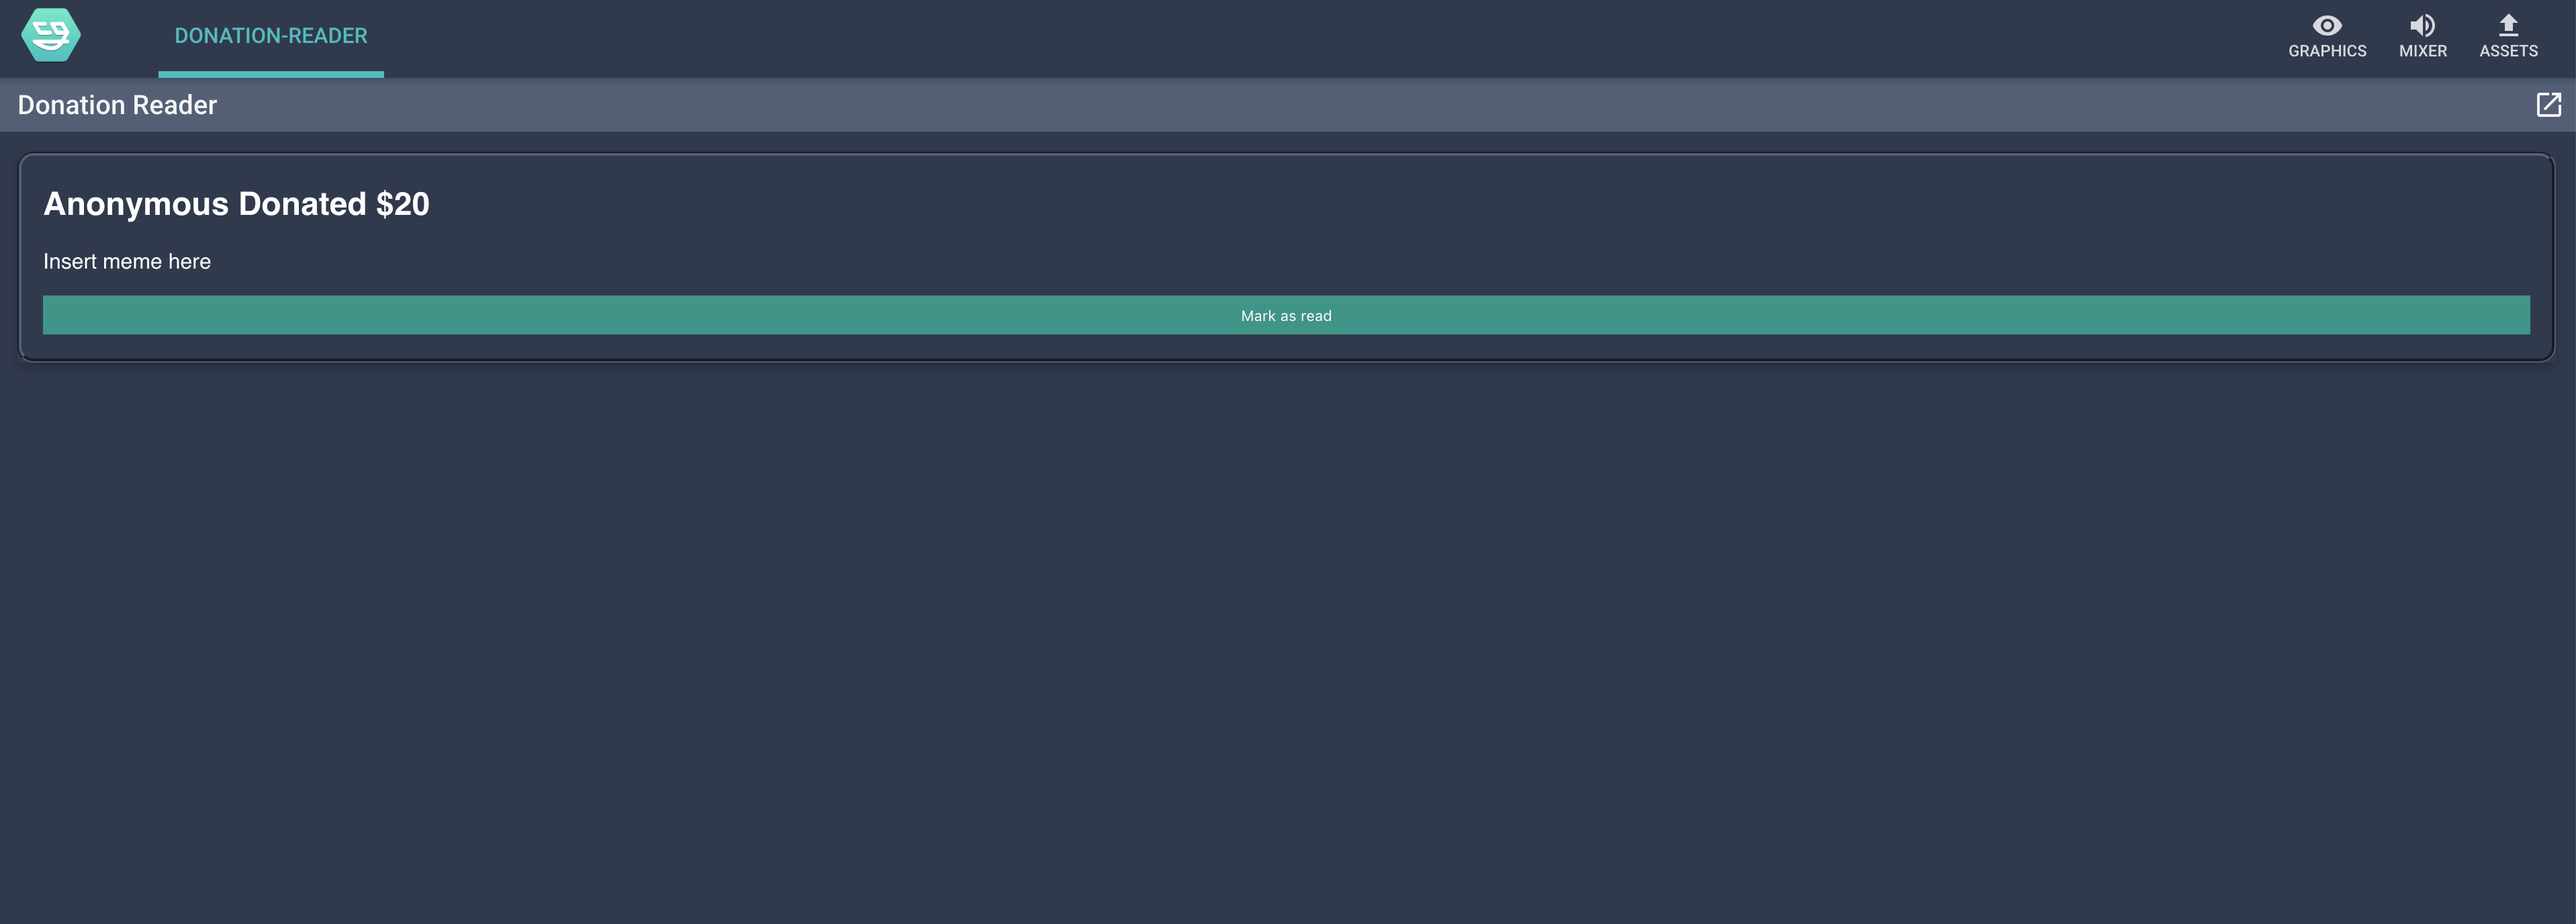
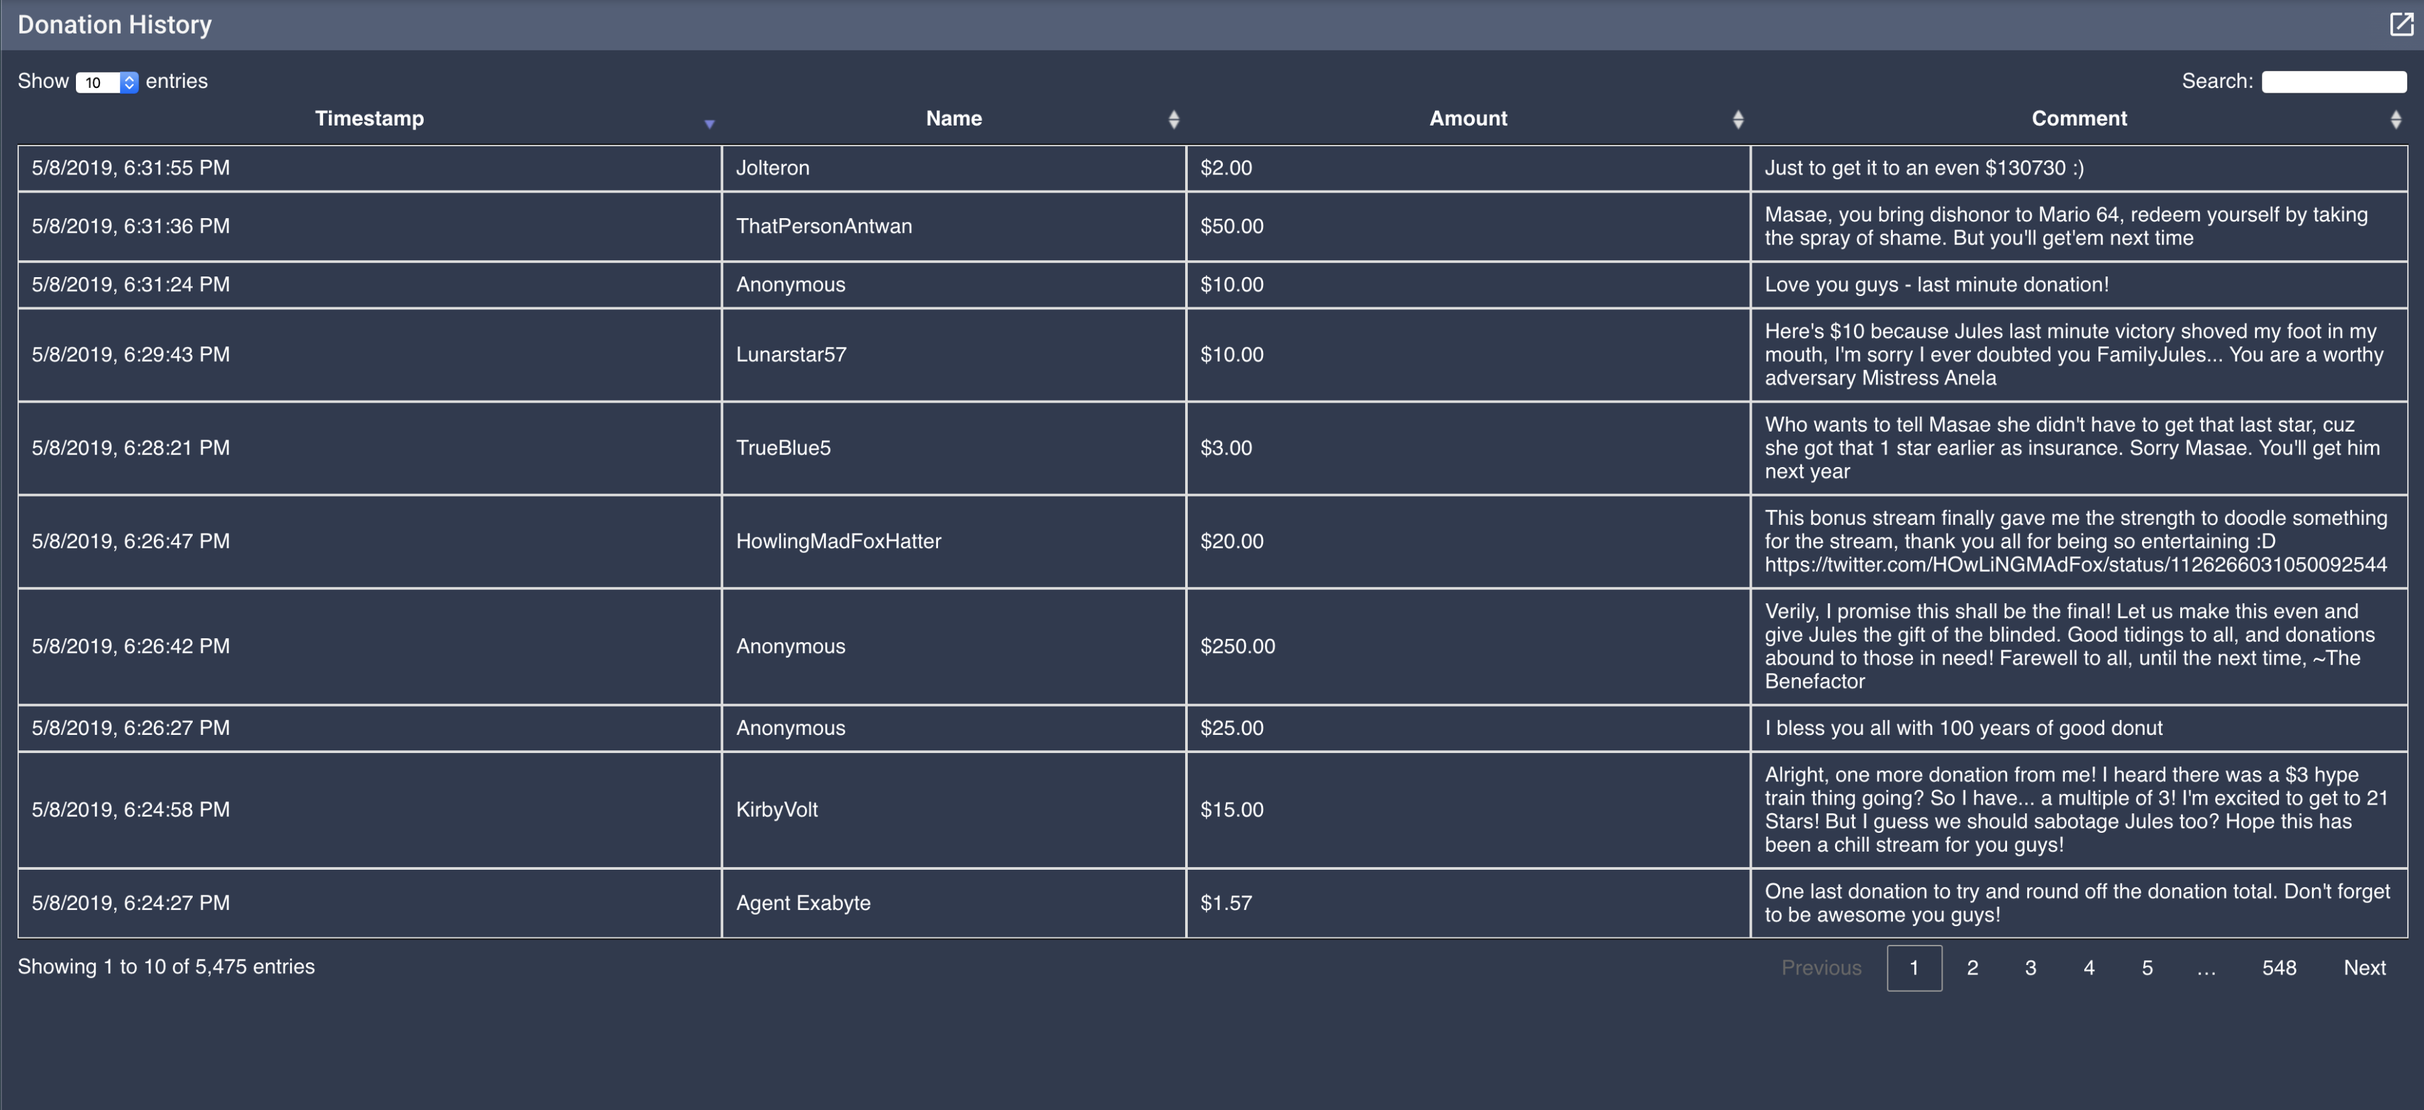
Changing readme and screenshot

diff --git a/README.md b/README.md
@@ -1,9 +1,8 @@
-tiltify-donation-reader is a [NodeCG](http://github.com/nodecg/nodecg) bundle. 
+nodecg-tiltify-donation-history is a [NodeCG](http://github.com/nodecg/nodecg) bundle. 
 It works with NodeCG versions which satisfy this [semver](https://docs.npmjs.com/getting-started/semantic-versioning) range: `^1.1.1`
 You will need to have an appropriate version of NodeCG installed to use it.
 
-This should just auto load all donations that haven't been "read", and marks
-them as read.
+This loads all donations into a sortable, searchable, datatable.
 
 ![screenshot](screenshot.png)
 
